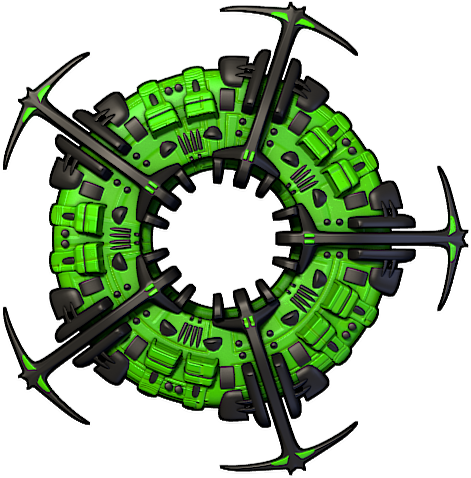
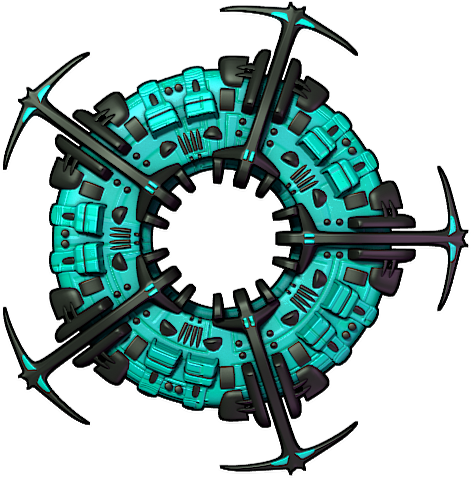
added images to powerup sprites

diff --git a/test_folder/Canvas/betaGame1/betaGame1.js b/test_folder/Canvas/betaGame1/betaGame1.js
@@ -69,6 +69,8 @@ let playerShip = document.getElementById('playerShip');
 let playerShipRight = document.getElementById('playerShipRightTurn');
 let playerShipLeft = document.getElementById('playerShipLeftTurn');
 let background = document.getElementById('backgroundShip');
+let shieldPowerUpImage = document.getElementById('shieldPowerUp');
+let weaponPowerUpImage = document.getElementById('weaponPowerUp');
 
 // other variables and listeners
 
@@ -247,7 +249,8 @@ class Sprite {
       if (getDistance(this.x, this.y, shieldPowerUp[spu].x, shieldPowerUp[spu].y)-shieldPowerUp[spu].radius <0){
         initSmallExplosion(this.x, this.y);
         shieldPowerUp.splice(spu, 1);
-        playerShields.shields.strength += 10;
+        playerShields.shields.strength += 11;
+        shieldHit();
         spliceThis = true;
       }
     }
@@ -930,12 +933,40 @@ function animateEnemyAmmo() {
 function animateWeaponUpgrade(){
   for (let wpu = 0; wpu < weaponPowerUp.length; wpu++) {
     weaponPowerUp[wpu].weaponPowerUpUpdate();
+    ctx.drawImage(weaponPowerUpImage, weaponPowerUp[wpu].x-25, weaponPowerUp[wpu].y-25, 55, 55);
+    weaponPowerUp[wpu].counter +=1;
+    switch (weaponPowerUp[wpu].counter){
+      
+        case 1, 2, 3, 4, 5:
+          weaponPowerUp[wpu].color = "rgb(168, 0, 28)";
+          break;
+        case 6, 7, 8, 9, 10:
+          weaponPowerUp[wpu].color = "rgb(192, 196, 0)";
+          break;
+        case 11:
+          weaponPowerUp[wpu].counter = 0;
+          break;
+
+    }
   }
 };
 
 function animateShieldUgrade() {
   for (let spu = 0; spu < shieldPowerUp.length; spu++) {
     shieldPowerUp[spu].weaponPowerUpUpdate();
+    ctx.drawImage(shieldPowerUpImage, shieldPowerUp[spu].x-25, shieldPowerUp[spu].y-25, 55, 55);
+    shieldPowerUp[spu].counter +=1;
+    switch (shieldPowerUp[spu].counter){
+      case 1, 2, 3, 4, 5:
+        shieldPowerUp[spu].color = "rgb(21, 32, 179)";
+        break;
+      case 6, 7, 8, 9, 10:
+        shieldPowerUp[spu].color = "rgb(9, 255, 0)";
+        break;
+      case 11:
+        shieldPowerUp[spu].counter = 0;
+        break;
+    }
   }
 };
 
@@ -1121,6 +1152,7 @@ let gameRunning = false;
 function newGame(level = 1){
   gameRunning = true;
   gameLevel = level;
+  clearAllEnemyArrays();
   switch (level){
     case 1:
       ammoType = 1;
@@ -1190,8 +1222,7 @@ function playerDead(){
   }
   playerSprite.hitPoints = 0;
   gameLevel = 0;
-  enemyShieldsStatus = false;
-  enemyShieldsStatus2 = false;
+  
 };
 
 function clearAllEnemyArrays(){
@@ -1204,6 +1235,7 @@ function clearAllEnemyArrays(){
   enemyAmmo = [];
   finalBossSprite = false;
   miniBosses = [];
+  littleEnemySprites = [];
 
 };
 

diff --git a/test_folder/Canvas/betaGame1/betaGame1.html b/test_folder/Canvas/betaGame1/betaGame1.html
@@ -37,6 +37,8 @@
         <img id="alien3" src="./images/spaceship.png">
         <img id="alien4" src="./images/clipart993884red.png">
         <img id="backgroundShip" src="./images/ShipBackground.png" style="display: none;">
+        <img id="shieldPowerUp" src="./images/clipart64445.png" style="display: none;">
+        <img id="weaponPowerUp" src="./images/weaponPowerUp.png" style="display: none;">
       </div>
     </div>
 

diff --git a/Fullsite1/Portfolio2/index.html b/Fullsite1/Portfolio2/index.html
@@ -28,6 +28,10 @@
       <a href="#">Link5</a>
     </div>
    </nav>
+   <!-- END NAVBAR-->
+   
+   <!-- HERO SECTION -->
+    
 
 
   
